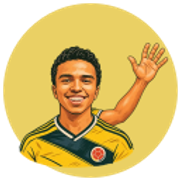
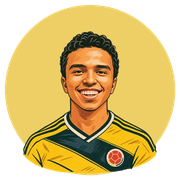
Keep the greeting natural in the portrait video

diff --git a/app/globals.css b/app/globals.css
@@ -107,7 +107,7 @@ a {
 .wordmark-avatar {
   position: relative;
   display: block;
-  width: 54px;
+  width: 44px;
   height: 48px;
   padding: 0;
   border: 0;
@@ -125,8 +125,7 @@ a {
   border-radius: 50%;
   background: #e6c755;
 }
-.wordmark-avatar-body,
-.wordmark-avatar-arm {
+.wordmark-avatar-body {
   position: absolute;
   max-width: none;
   height: auto;
@@ -138,34 +137,22 @@ a {
   bottom: 0;
   z-index: 2;
 }
-.wordmark-avatar-arm {
-  width: 29px;
-  left: 25px;
-  bottom: 5px;
-  transform-origin: 5% 95%;
-  z-index: 1;
-}
 @media (prefers-reduced-motion: no-preference) {
-  .wordmark-avatar-arm {
-    animation: nico-wave 1.65s .35s ease-in-out both;
-  }
-  .wordmark-avatar:hover .wordmark-avatar-arm,
-  .wordmark-avatar:focus-visible .wordmark-avatar-arm {
-    animation: nico-wave 1.65s ease-in-out both;
+  .wordmark-avatar-body {
+    transform-origin: 50% 100%;
+    animation: nico-hello 2s .35s ease-in-out both;
   }
 }
-@keyframes nico-wave {
+@keyframes nico-hello {
   0%,
   100% {
     transform: rotate(0);
   }
-  20%,
-  60% {
-    transform: rotate(-15deg);
+  35% {
+    transform: rotate(-4deg);
   }
-  40%,
-  80% {
-    transform: rotate(10deg);
+  65% {
+    transform: rotate(3deg);
   }
 }
 .brand-dot {

diff --git a/components/site-header.tsx b/components/site-header.tsx
@@ -9,7 +9,6 @@ import { Arrow } from "./icons"
 export function SiteHeader() {
   const pathname = usePathname()
   const [open, setOpen] = useState(false)
-  const [wave, setWave] = useState(0)
   return (
     <header
       className={`site-header shell ${pathname === "/" ? "is-home" : ""}`}
@@ -21,15 +20,9 @@ export function SiteHeader() {
       }}
     >
       <div className="site-brand">
-        <button
-          type="button"
-          className="wordmark-avatar"
-          aria-label="Saludar a Nico"
-          onClick={() => setWave((count) => count + 1)}
-        >
-          <img key={wave} className="wordmark-avatar-arm" src="/images/avatar/brazo.webp" alt="" />
+        <span className="wordmark-avatar" aria-hidden="true">
           <img className="wordmark-avatar-body" src="/images/avatar/nico.webp" alt="" />
-        </button>
+        </span>
         <Link
           href="/"
           className="wordmark"
